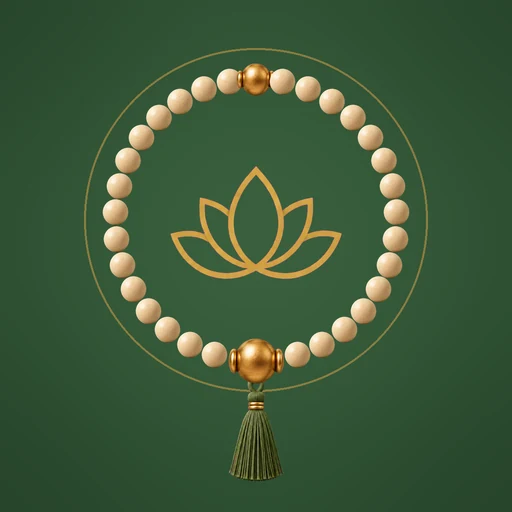
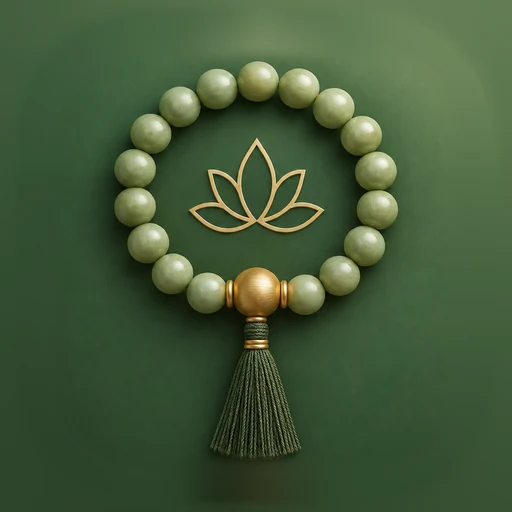
Adiciona a página da Libranium Tech e a configuração remota do Japamala
- Página inicial passa a ser a vitrine da Libranium Tech, com os apps Japamala
  108 e Jogo da Velha - Maju e Maitê (ícone, estado e links de cada um)
- japamala/config.json: arquivo lido pelo app para exibir promoções sem nova
  versão (promoção desligada por padrão), documentado no README
- Ícone do Japamala atualizado para o novo

diff --git a/index.html b/index.html
@@ -3,65 +3,133 @@
 <head>
 <meta charset="UTF-8">
 <meta name="viewport" content="width=device-width, initial-scale=1">
-<title>Políticas dos apps</title>
+<title>Libranium Tech — Aplicativos</title>
+<meta name="description" content="Aplicativos da Libranium Tech: Japamala 108 e Jogo da Velha — Maju e Maitê.">
 <link rel="preconnect" href="https://fonts.googleapis.com">
-<link rel="stylesheet" href="https://fonts.googleapis.com/css2?family=Fraunces:opsz,wght@9..144,500;9..144,600&family=Libre+Franklin:wght@400;500;600&display=swap">
+<link rel="stylesheet" href="https://fonts.googleapis.com/css2?family=Fraunces:opsz,wght@9..144,500;9..144,600;9..144,700&family=Libre+Franklin:wght@400;500;600;700&display=swap">
 <style>
   :root {
-    --bg: #fbf9fc;
+    --bg: #f6f5f1;
     --surface: #ffffff;
-    --text: #241c2e;
-    --text-muted: #6b6178;
-    --accent: #7c45d6;
-    --accent-ink: #4a2b8f;
-    --border: #e4deec;
+    --text: #1c2230;
+    --text-muted: #667085;
+    --accent: #2f5d50;
+    --accent-ink: #1f4237;
+    --accent-soft: #e6efeb;
+    --border: #e3e1da;
+    --soon: #8a5a12;
+    --soon-soft: #fbf0dc;
+
+    --font-display: 'Fraunces', Georgia, 'Times New Roman', serif;
+    --font-body: 'Libre Franklin', -apple-system, BlinkMacSystemFont, 'Segoe UI', sans-serif;
   }
   @media (prefers-color-scheme: dark) {
     :root:not([data-theme="light"]) {
-      --bg: #17121f; --surface: #1f1929; --text: #efe9f5;
-      --text-muted: #b3a8c2; --accent: #c7a6f5; --accent-ink: #e4d3ff; --border: #362b47;
+      --bg: #12161f; --surface: #1a2030; --text: #eef0f5; --text-muted: #a3acbd;
+      --accent: #8fc3b3; --accent-ink: #bfe3d8; --accent-soft: #1f2f2a;
+      --border: #2b3346; --soon: #e6b866; --soon-soft: #2e2617;
     }
   }
   :root[data-theme="dark"] {
-    --bg: #17121f; --surface: #1f1929; --text: #efe9f5;
-    --text-muted: #b3a8c2; --accent: #c7a6f5; --accent-ink: #e4d3ff; --border: #362b47;
+    --bg: #12161f; --surface: #1a2030; --text: #eef0f5; --text-muted: #a3acbd;
+    --accent: #8fc3b3; --accent-ink: #bfe3d8; --accent-soft: #1f2f2a;
+    --border: #2b3346; --soon: #e6b866; --soon-soft: #2e2617;
   }
+
   * { box-sizing: border-box; }
+  html { background: var(--bg); }
   body {
     margin: 0; background: var(--bg); color: var(--text);
-    font-family: 'Libre Franklin', -apple-system, sans-serif; line-height: 1.6;
+    font-family: var(--font-body); line-height: 1.6; -webkit-font-smoothing: antialiased;
   }
-  .page { max-width: 640px; margin: 0 auto; padding: 64px 24px 96px; }
+  .page { max-width: 880px; margin: 0 auto; padding: 72px 24px 96px; }
+
+  .brand {
+    font-family: var(--font-display); font-weight: 700; font-size: 15px;
+    letter-spacing: 0.14em; text-transform: uppercase; color: var(--accent); margin: 0 0 14px;
+  }
   h1 {
-    font-family: 'Fraunces', Georgia, serif; font-weight: 600;
-    font-size: clamp(26px, 4vw, 34px); margin: 0 0 8px; text-wrap: balance;
+    font-family: var(--font-display); font-weight: 600;
+    font-size: clamp(30px, 5vw, 44px); line-height: 1.1; margin: 0 0 12px; text-wrap: balance;
   }
-  .lede { color: var(--text-muted); margin: 0 0 40px; font-size: 16px; max-width: 52ch; }
-  .apps { display: flex; flex-direction: column; gap: 12px; }
-  .app-card {
-    display: flex; align-items: center; justify-content: space-between; gap: 16px;
-    background: var(--surface); border: 1px solid var(--border); border-radius: 12px;
-    padding: 18px 20px; text-decoration: none; color: var(--text);
+  .lede { color: var(--text-muted); font-size: 17px; margin: 0 0 44px; max-width: 54ch; }
+
+  .apps { display: grid; grid-template-columns: repeat(auto-fit, minmax(320px, 1fr)); gap: 18px; }
+
+  .app {
+    display: flex; flex-direction: column; gap: 16px;
+    background: var(--surface); border: 1px solid var(--border); border-radius: 20px;
+    padding: 24px;
   }
-  .app-card .name { font-weight: 600; font-size: 16px; }
-  .app-card .link { color: var(--accent-ink); font-size: 14px; font-weight: 600; }
-  .app-card:hover { border-color: var(--accent); }
+  .app-head { display: flex; align-items: center; gap: 18px; }
+  .app-icon {
+    width: 76px; height: 76px; flex: none; display: grid; place-items: center;
+  }
+  .app-icon img { width: 100%; height: 100%; object-fit: contain; }
+  .app-icon.round img { border-radius: 18px; box-shadow: 0 6px 16px rgba(0,0,0,0.18); }
+  .app h2 {
+    font-family: var(--font-display); font-weight: 600; font-size: 22px;
+    line-height: 1.2; margin: 0 0 6px;
+  }
+  .status {
+    display: inline-block; font-size: 12px; font-weight: 600; letter-spacing: 0.02em;
+    color: var(--soon); background: var(--soon-soft); border-radius: 999px; padding: 3px 10px;
+  }
+  .app p { margin: 0; color: var(--text-muted); font-size: 15px; }
+  .links { display: flex; flex-wrap: wrap; gap: 10px 22px; margin-top: auto; padding-top: 4px; }
+  .links a { color: var(--accent-ink); font-weight: 600; font-size: 14.5px; text-decoration: none; }
+  .links a:hover { text-decoration: underline; }
+  .links .pending { color: var(--text-muted); font-size: 14.5px; }
+
+  footer {
+    margin-top: 64px; padding-top: 24px; border-top: 1px solid var(--border);
+    font-size: 14px; color: var(--text-muted);
+  }
 </style>
 </head>
 <body>
 <div class="page">
-  <h1>Políticas dos apps</h1>
-  <p class="lede">Páginas públicas dos aplicativos: sobre cada app e a política de privacidade.</p>
+
+  <p class="brand">Libranium Tech</p>
+  <h1>Nossos aplicativos</h1>
+  <p class="lede">Conheça os apps da Libranium Tech e consulte, em cada um, a página com mais detalhes e a política de privacidade.</p>
+
   <div class="apps">
-    <a class="app-card" href="jogo-da-velha/">
-      <span class="name">Jogo da Velha — Maju e Maitê</span>
-      <span class="link">Ver página →</span>
-    </a>
-    <a class="app-card" href="japamala/">
-      <span class="name">Japamala — contador de mantras</span>
-      <span class="link">Ver página →</span>
-    </a>
+
+    <article class="app">
+      <div class="app-head">
+        <div class="app-icon round"><img src="japamala/assets/icon.webp" alt="Ícone do Japamala 108"></div>
+        <div>
+          <h2>Japamala 108</h2>
+          <span class="status">Em desenvolvimento</span>
+        </div>
+      </div>
+      <p>Contador de mantras inspirado no colar de 108 contas, com histórico das práticas, lembrete diário e sons para praticar com calma.</p>
+      <div class="links">
+        <a href="japamala/">Sobre o app →</a>
+        <span class="pending">Política de privacidade: em breve</span>
+      </div>
+    </article>
+
+    <article class="app">
+      <div class="app-head">
+        <div class="app-icon"><img src="jogo-da-velha/assets/card_velha.webp" alt="Ícone do Jogo da Velha — Maju e Maitê"></div>
+        <div>
+          <h2>Jogo da Velha — Maju e Maitê</h2>
+          <span class="status">Em preparação para a Google Play</span>
+        </div>
+      </div>
+      <p>Jogo da velha e jogo da memória para crianças pequenas, do jeitinho da Maju e da Maitê: botões grandes, sons animados e nada para ler.</p>
+      <div class="links">
+        <a href="jogo-da-velha/">Sobre o app →</a>
+        <a href="jogo-da-velha/privacidade.html">Política de privacidade →</a>
+      </div>
+    </article>
+
   </div>
+
+  <footer>© 2026 Libranium Tech</footer>
+
 </div>
 </body>
 </html>

diff --git a/README.md b/README.md
@@ -1,7 +1,10 @@
-# Páginas públicas dos apps
+# Páginas públicas dos apps — Libranium Tech
 
 Repositório público com a página "sobre" e a política de privacidade de cada
 app. Publicado via GitHub Pages.
+
+A página inicial (`index.html`) é a vitrine da **Libranium Tech**: lista todos os
+apps, com o ícone, o estado e os links de cada um.
 
 Uma pasta por app:
 
@@ -14,6 +17,7 @@ jogo-da-velha/
 japamala/
   index.html          ← página "sobre" o Japamala (contador de mantras)
   privacidade.html     ← política de privacidade (ainda não criada)
+  config.json          ← configuração remota lida pelo app (promoções)
   assets/              ← ícone, lótus e logo do app, em WebP
 ```
 
@@ -22,4 +26,37 @@ japamala/
 1. Crie uma pasta com o nome do app.
 2. Coloque a página "sobre" em `<app>/index.html` e a política em
    `<app>/privacidade.html`.
-3. Adicione um card pra ele em `index.html` (raiz do repositório).
+3. Adicione um card pra ele em `index.html` (raiz do repositório), com o ícone,
+   a descrição, o estado ("Em desenvolvimento", "Publicado"…) e os links.
+
+## Configuração remota do Japamala (`japamala/config.json`)
+
+O app do Japamala lê este arquivo ao abrir (e ao abrir a tela Premium) para
+mostrar uma **promoção** sem precisar de uma nova versão do app. Se estiver sem
+internet ou o arquivo estiver inválido, o app usa a última versão que
+conseguiu ler (ou nenhuma promoção).
+
+Endereço lido pelo app:
+`https://ricardodomingues27.github.io/politicas-apps-maju-e-maite/japamala/config.json`
+
+| Campo (`premium.promo`) | O que faz |
+|---|---|
+| `active` | `true` liga a promoção; `false` desliga (o app não mostra nada) |
+| `badge` | selo curto, ex.: `-30%` |
+| `title` | título da faixa, ex.: `Promoção de lançamento` |
+| `message` | frase da faixa |
+| `originalPriceLabel` | preço "de" mostrado riscado (opcional), ex.: `R$ 27,90` |
+| `startsAt` / `endsAt` | início e fim, com fuso (`-03:00` = Brasília). Fora desse período o app não mostra a promoção, mesmo com `active: true` |
+
+**Para lançar uma promoção:** edite o arquivo (`active: true`, textos e datas),
+faça o commit no `main` e aguarde alguns minutos (o GitHub Pages guarda o
+arquivo em cache por até ~10 min). Para encerrar, `active: false`.
+
+> **Importante:** este arquivo só controla o **aviso** da promoção. O valor
+> **cobrado** é o da loja: o preço promocional (ou a oferta) precisa ser
+> configurado também no Google Play Console / App Store Connect, com o mesmo
+> período. Nunca deixe o aviso mostrar um valor diferente do cobrado.
+
+O arquivo é público (qualquer pessoa pode lê-lo): **não coloque nada secreto**
+nele. Como o app o baixa do GitHub, isso deve constar na política de
+privacidade do Japamala (o GitHub recebe o endereço IP de quem abre o app).
